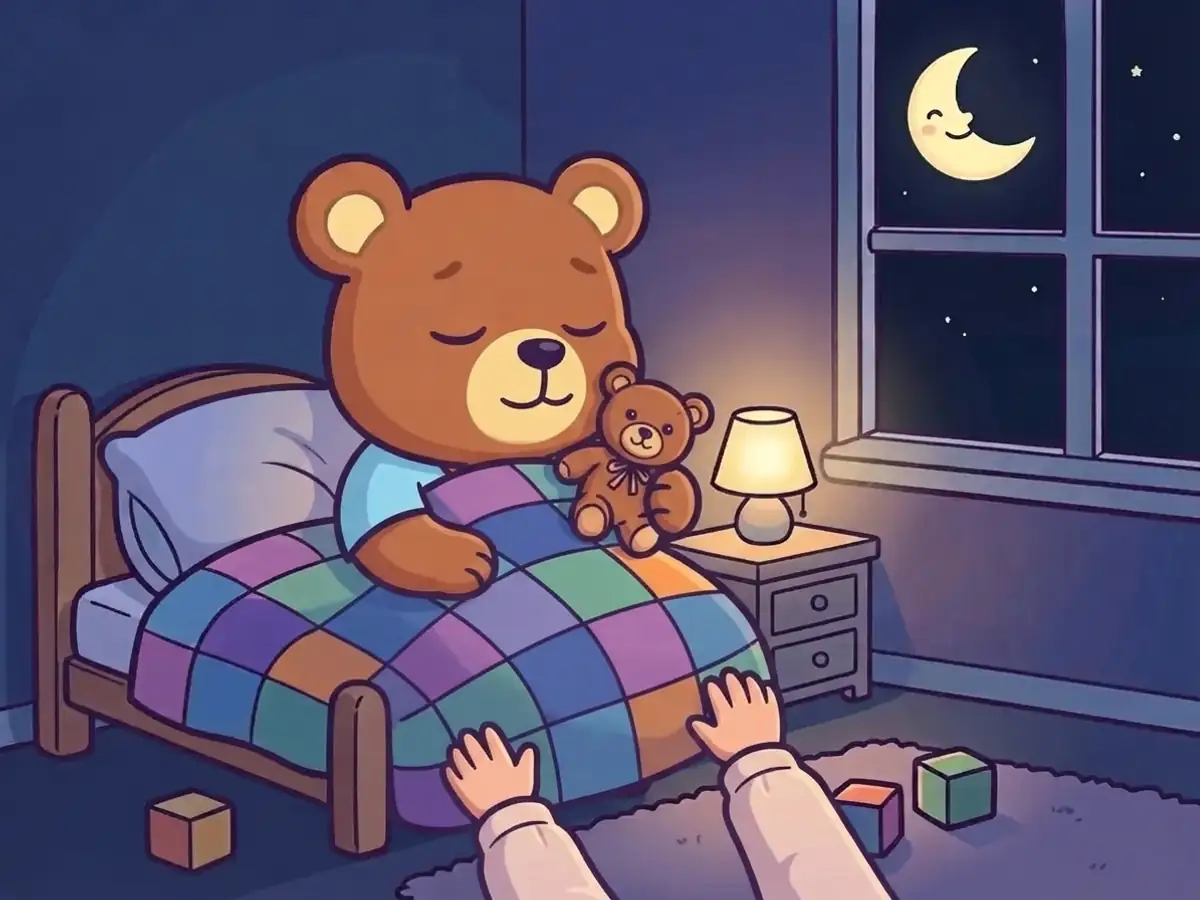
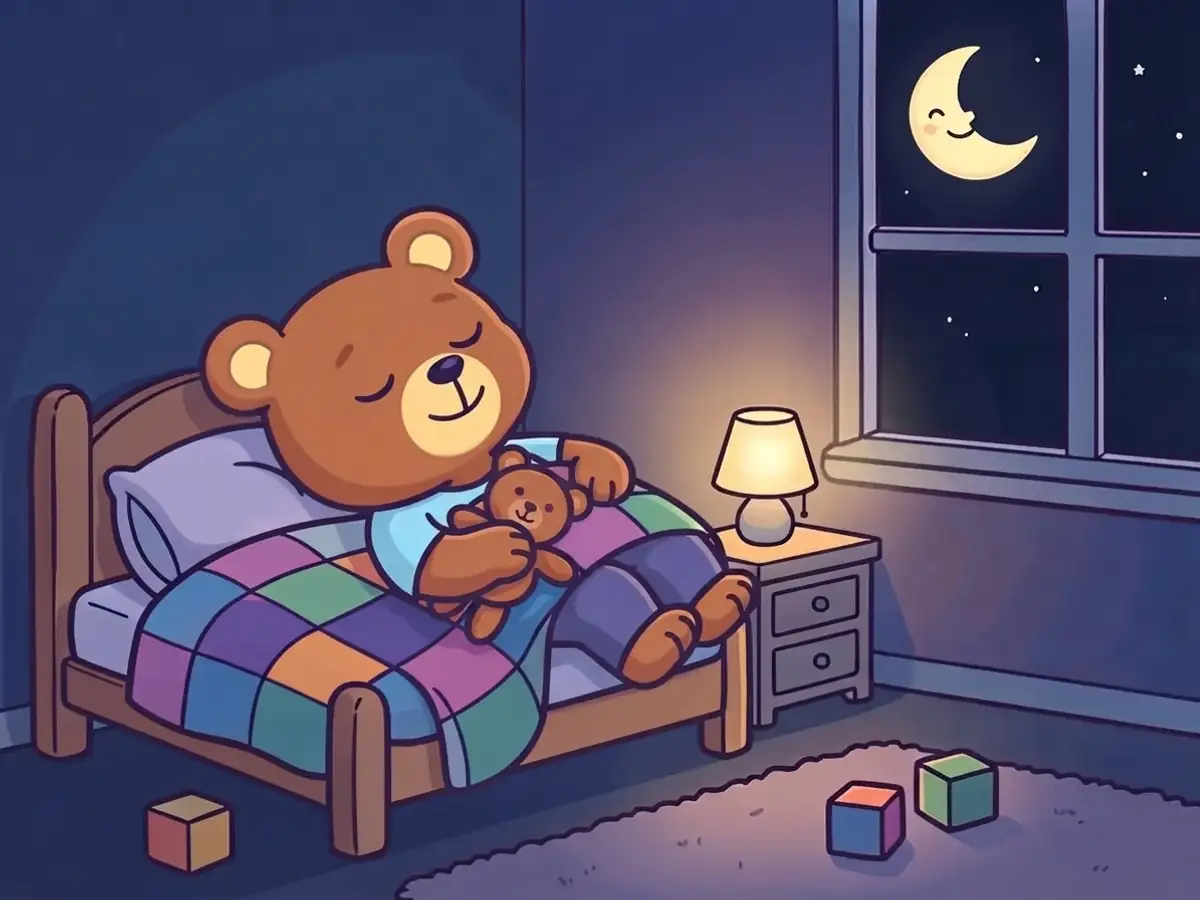
Gefühle: the tired bear's pictures – he hops on the bed, plays on the rug, cries, tucks himself in, listens to the lullaby and cuddles his teddy, all alone and no hands; the end picture without hands too; lying in bed is drawn from a picture where he already lies

diff --git a/src/games/feelings/bilder/README.md b/src/games/feelings/bilder/README.md
@@ -57,7 +57,12 @@ furniture, shelves, toys and rug at the same places, the same light and time of 
 or arms may come in from the bottom edge, never a whole child, no child's face. Change only what happens: …“
 mit `baer-…` als `--ref`. Tut der Bär es selbst (stampfen, pusten, werfen), heißt der Satz stattdessen „The little
 bear is the only character, seen whole from head to feet. No hands, no arms come in from the edges“ – sonst malt
-Gemini eine Kinderhand dazu, die auf ihn zeigt, und man fragt sich, wer da was tut. Karten, die bei mehreren Gefühlen vorkommen (`trost-hug`, `trost-teddy`), passen
+Gemini eine Kinderhand dazu, die auf ihn zeigt, und man fragt sich, wer da was tut. Liegt der Bär im Bett, während er in `baer-…`
+sitzt (`baer-tired`: auf der Bettkante), behält das Modell das Sitzen – unter der Decke, die Füße hängen heraus –,
+bis der Prompt es ausdrücklich verneint: „He is NOT sitting: he lies flat on his back along the bed, head on the
+pillow … no legs or feet hang over the edge of the bed“. Auch so kam er beim Teddy noch zweimal sitzend zurück: Bilder, in denen er weiter
+liegt (`trost-cuddle`, `baer-tired-gut`), werden darum aus einem Bild gezeichnet, in dem er schon liegt
+(`trost-lullaby` als einzige `--ref`, „keeps lying exactly as he lies here … does NOT sit up“). Karten, die bei mehreren Gefühlen vorkommen (`trost-hug`, `trost-teddy`), passen
 nicht in jeden Raum; sie zeigen den Bären nah, mit wenig Raum drumherum.
 
 Danach `bun run frames --scenes`: vergleicht den Rand jedes Bildes (fast immer Hintergrund) mit dem ersten Bild
@@ -332,15 +337,21 @@ Bild neu zu zeichnen. Mitbringen darf eine Karte etwas Neues (Teddy aus der Kist
 | `trost-teddy`        | A child's hands give the little bear a small teddy. He hugs it and smiles.                                                                                                                                                                                                                         |
 | `trost-stomp`        | (`baer-angry` room) The little bear stands, seen whole from head to feet, and stomps: both soles hit the floor together, knees bent, big impact lines and dust puffs under BOTH feet; determined face. The second shoe lies on the rug behind him. `-b`: both feet up in the air in a little jump. |
 | `trost-blow`         | (`baer-angry` room) The little bear stands, eyes softly closed, a relieved happy smile, no red face, one paw on his belly; a soft cloud of breath rises straight up into the empty air above him, nothing in front of his mouth. `-b`: breathing in, chest round, smiling.                         |
+| `trost-liedown`      | Night, a moon in the window. The little bear lies flat in his bed, NOT sitting, and pulls the patchwork quilt up to his chin himself, sleepy smile. Only the bear, no hands.                                                                                                                       |
+| `trost-lullaby`      | Night, a moon in the window. The little bear lies flat in his bed under the patchwork quilt, NOT sitting, eyes closed, music notes float through the air; he falls asleep smiling. Only the bear, no hands.                                                                                        |
+| `trost-cuddle`       | Night, a moon in the window. The little bear lies flat in bed under the patchwork quilt, NOT sitting, and cuddles a small teddy close, eyes closing, sleepy smile. Only the bear.                                                                                                                  |
 | `trost-hand`         | A child's hand holds the little bear's paw. The bear looks calm and smiles a little.                                                                                                                                                                                                               |
 | `trost-light`        | A lamp is switched on; warm light fills the dark room. The little bear is relieved and smiles.                                                                                                                                                                                                     |
 | `baer-angry-nein`    | The angry little bear himself throws his shoe: he stands, one red shoe on, the other foot bare, his arm stretched out high and far, paw open; the other red shoe flies just beyond the paw, motion lines between paw and shoe. Nothing else flies; red face, shouting.                             |
 | `baer-angry-nein-2`  | The angry little bear himself screams very loudly: he stands on the rug, mouth wide open, red face, fists clenched, shout lines around his head; one shoe on, the other on the rug. He touches nothing, nothing flies.                                                                             |
 | `baer-angry-nein-3`  | Only a child's hand and forearm from the bottom right edge: it reaches towards the bear's chest to comfort him, and the angry bear slaps the back of the hand – his paw on it right now, a small bump mark where they meet; the hand jerks back. Gentle, no injuries.                              |
+| `baer-tired-nein`    | Night, a moon in the window. The little bear jumps up and down on his bed, arms up, the patchwork quilt kicked into a heap; wide awake and wild. Only the bear, no hands.                                                                                                                          |
+| `baer-tired-nein-2`  | Night, a moon in the window. The little bear has climbed out of bed and plays with wooden toy blocks on the rug, wide awake, eyes big. Only the bear, no hands.                                                                                                                                    |
+| `baer-tired-nein-3`  | Night, a moon in the window. The little bear sits up in his bed and cries, big tears, awake again. Only the bear, no hands.                                                                                                                                                                        |
 | `baer-scared-nein-3` | Night, thunderstorm. A child's finger switches the bedside lamp off. The bear sits in bed, clearly visible, clutching a pillow, very scared.                                                                                                                                                       |
 | `baer-sad-gut`       | The little bear in his cosy room is happy again: he laughs, jumps up with both arms raised, small hearts float around him.                                                                                                                                                                         |
 | `baer-angry-gut`     | The anger is gone: plain brown face, NO red or pink patches, a big smile; he sits relaxed on the rug, legs stretched out, both red shoes on his feet.                                                                                                                                              |
-| `baer-tired-gut`     | Night, a moon in the window. The little bear sleeps peacefully in his bed under a pink striped blanket, holding a small teddy.                                                                                                                                                                     |
+| `baer-tired-gut`     | Night, a moon in the window. Only the bear, no hands: he lies flat in his bed, NOT sitting, and sleeps peacefully under the patchwork quilt, holding a small teddy.                                                                                                                                |
 | `baer-scared-gut`    | The storm is over: a rainbow outside the window, the lamp is on. Only the little bear: he sits on his bed, laughs and waves.                                                                                                                                                                       |
 | `baer-happy`         | Birthday in his cosy room: balloons, a birthday cake with candles on a little table. The little bear wears a party hat and beams with joy, clapping his paws.                                                                                                                                      |
 | `trost-dance`        | Birthday party, balloons. A child's hands hold the little bear's paws from the front; they dance together, the bear in a party hat jumps and laughs, music notes.                                                                                                                                  |
@@ -373,18 +384,12 @@ seine Zeile in die Tabelle „Zu Hause“ (`feelings.test.ts` prüft beides).
 
 Runde für Runde steht die nicht so gute Idee neben der guten, die sie besser macht:
 
-| Datei                | Runde, daneben           | Prompt                                                                                                                                                                                               |
-| -------------------- | ------------------------ | ---------------------------------------------------------------------------------------------------------------------------------------------------------------------------------------------------- |
-| `baer-sad-nein`      | 1, Umarmen               | A child's hands push the sad little bear away; he tips backwards onto the rug and cries even harder, big tears. Gentle, no injuries.                                                                 |
-| `baer-sad-nein-2`    | 2, Streicheln            | A child's hands take the green toy dinosaur out of the toy box and break it in two right in front of the little bear; he cries even harder, reaching after it.                                       |
-| `baer-sad-nein-3`    | 3, Teddy geben           | A child's hands sweep away the wooden toy blocks from the rug next to the sad little bear and take them out of the picture; he cries even harder, reaching after them.                               |
-| `baer-tired-nein`    | 1, Hinlegen und zudecken | Night, a moon in the window. The little bear jumps up and down on his bed, arms up, the pink striped blanket kicked aside; wide awake and wild. Only the bear, no hands.                             |
-| `trost-liedown`      | 1, gute Idee             | Night, a moon in the window. The little bear lies down in his bed and pulls the pink striped blanket up to his chin himself, sleepy smile. Only the bear, no hands.                                  |
-| `baer-tired-nein-2`  | 2, Schlaflied hören      | Night, a moon in the window. The little bear has climbed out of bed and plays with wooden toy blocks on the rug, wide awake, eyes big. Only the bear, no hands.                                      |
-| `trost-lullaby`      | 2, gute Idee             | Night, a moon in the window. The little bear lies alone in his bed under the pink striped blanket, eyes closed, music notes float through the air; he falls asleep smiling. Only the bear, no hands. |
-| `baer-tired-nein-3`  | 3, Teddy kuscheln        | Night, a moon in the window. The little bear sits up in his bed and cries, big tears, awake again. Only the bear, no hands.                                                                          |
-| `trost-cuddle`       | 3, gute Idee             | Night, a moon in the window. The little bear lies in bed under the pink striped blanket and cuddles a small teddy close, eyes closing, sleepy smile. Only the bear.                                  |
-| `baer-scared-nein`   | 1, Umarmen               | Night, thunderstorm. A child's hand holds up a spooky monster hand puppet in front of the little bear in bed, „boo!“; he startles, very scared.                                                      |
-| `baer-scared-nein-2` | 2, Hand halten           | Night, thunderstorm. The little bear sits alone in his bed clutching a pillow, very scared; the door of the room is just closing, nobody there.                                                      |
-| `baer-happy-nein`    | 1, Mittanzen             | Birthday, balloons. A child's hand pops one of the bear's balloons with a pin, a small burst; the little bear in a party hat flinches, sad.                                                          |
-| `baer-happy-nein-2`  | 2, Luftschlangen werfen  | Birthday. A child's hands take a wrapped present away from the little bear in a party hat; his smile is gone, he reaches after it.                                                                   |
+| Datei                | Runde, daneben          | Prompt                                                                                                                                                                 |
+| -------------------- | ----------------------- | ---------------------------------------------------------------------------------------------------------------------------------------------------------------------- |
+| `baer-sad-nein`      | 1, Umarmen              | A child's hands push the sad little bear away; he tips backwards onto the rug and cries even harder, big tears. Gentle, no injuries.                                   |
+| `baer-sad-nein-2`    | 2, Streicheln           | A child's hands take the green toy dinosaur out of the toy box and break it in two right in front of the little bear; he cries even harder, reaching after it.         |
+| `baer-sad-nein-3`    | 3, Teddy geben          | A child's hands sweep away the wooden toy blocks from the rug next to the sad little bear and take them out of the picture; he cries even harder, reaching after them. |
+| `baer-scared-nein`   | 1, Umarmen              | Night, thunderstorm. A child's hand holds up a spooky monster hand puppet in front of the little bear in bed, „boo!“; he startles, very scared.                        |
+| `baer-scared-nein-2` | 2, Hand halten          | Night, thunderstorm. The little bear sits alone in his bed clutching a pillow, very scared; the door of the room is just closing, nobody there.                        |
+| `baer-happy-nein`    | 1, Mittanzen            | Birthday, balloons. A child's hand pops one of the bear's balloons with a pin, a small burst; the little bear in a party hat flinches, sad.                            |
+| `baer-happy-nein-2`  | 2, Luftschlangen werfen | Birthday. A child's hands take a wrapped present away from the little bear in a party hat; his smile is gone, he reaches after it.                                     |
